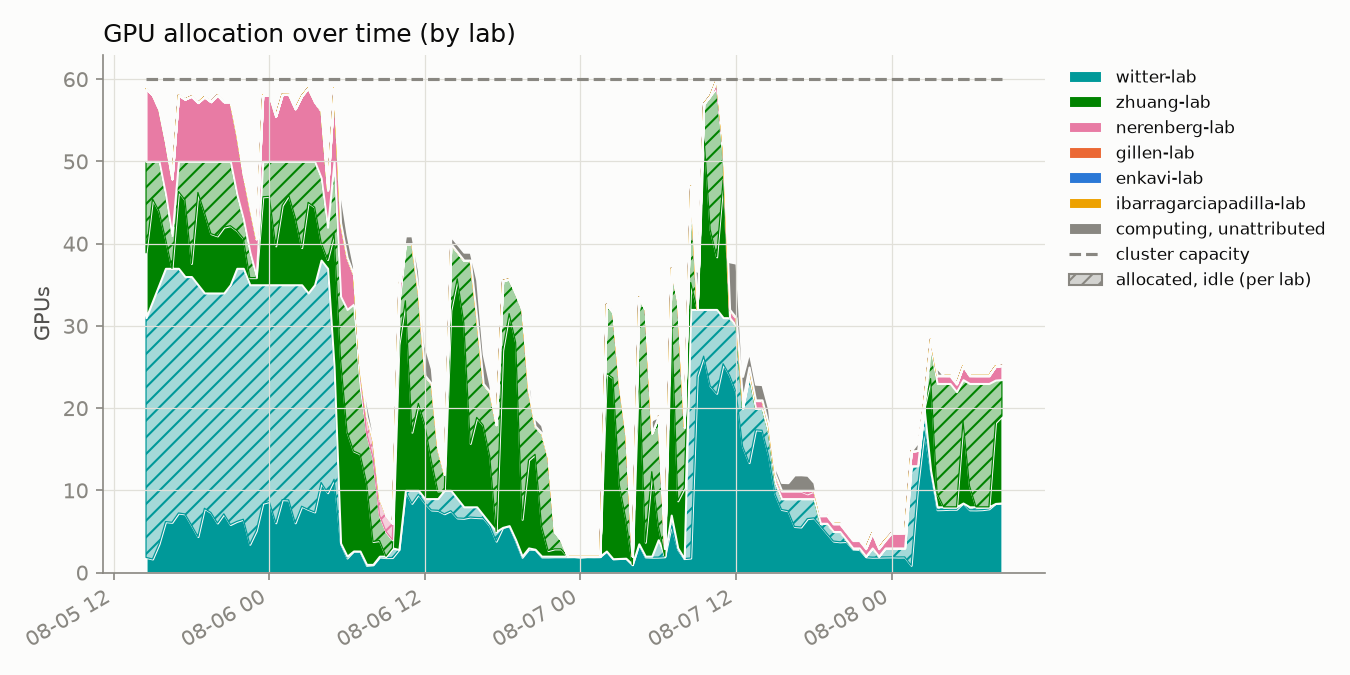
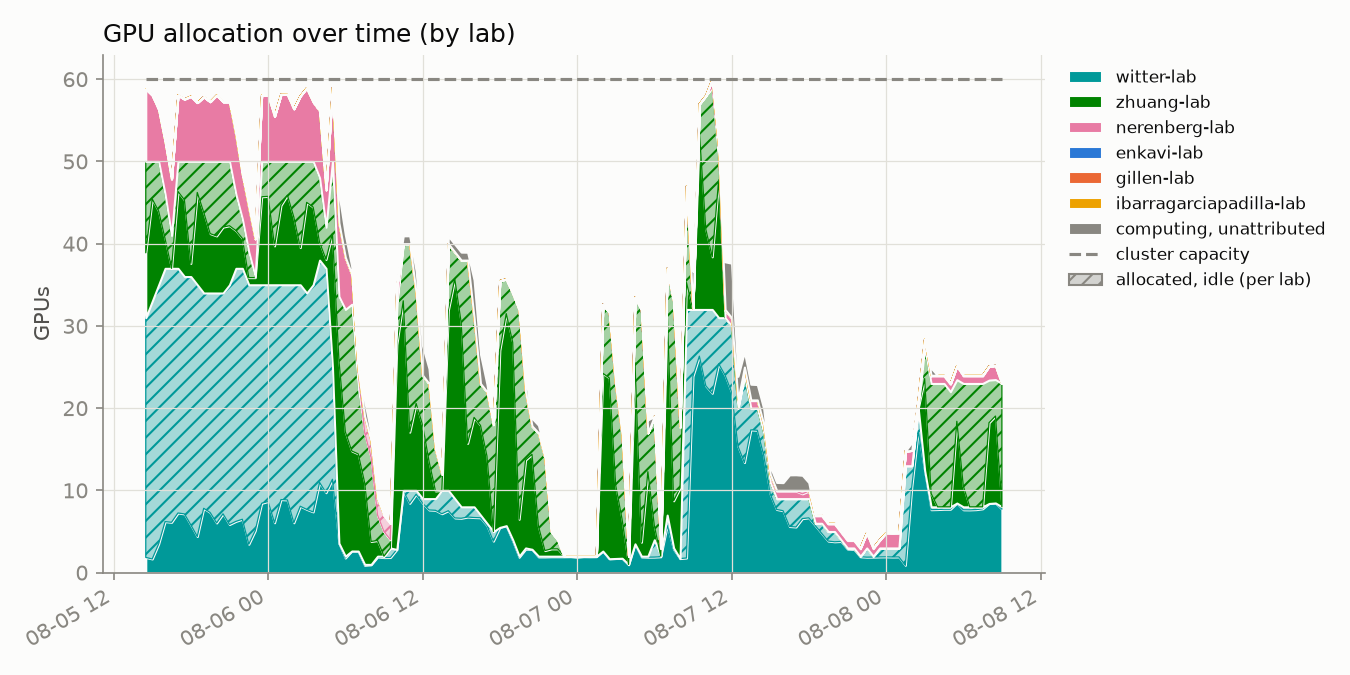
update 2026-08-08T09:00:01-07:00

diff --git a/README.md b/README.md
@@ -2,8 +2,8 @@
 
 Automated GPU/CPU/queue utilization tracker for `hopper.cluster`, updated every 30 minutes by cron. Usernames are anonymized to a stable per-account pseudonym; lab names are real.
 
-Last updated: 2026-08-08T08:30:14-07:00
-Samples: 133 queue snapshots, 133 GPU snapshots
+Last updated: 2026-08-08T09:00:13-07:00
+Samples: 134 queue snapshots, 134 GPU snapshots
 
 ## Resources
 
@@ -16,25 +16,25 @@ Samples: 133 queue snapshots, 133 GPU snapshots
 
 ## Headline
 
-- **45.5%** of the cluster's 60 GPUs allocated, averaged across all samples
-- **47.3%** average `nvidia-smi` utilization *when* a GPU is allocated to a job
-- **88.0%** average cgroup CPU utilization *when* a CPU is allocated to a job
+- **45.4%** of the cluster's 60 GPUs allocated, averaged across all samples
+- **47.2%** average `nvidia-smi` utilization *when* a GPU is allocated to a job
+- **88.1%** average cgroup CPU utilization *when* a CPU is allocated to a job
 
 ## Per lab / per user
 
 <table>
 <tr><th>Lab</th><th>User</th><th align='right'>GPU-hours allocated</th><th align='right'>CPU-hours allocated</th><th align='right'>GPU utilization</th></tr>
-<tr style='background-color:#d8ecd8'><td>zhuang-lab</td><td>user-0db9ced0</td><td align='right'>811.5</td><td align='right'>811.5</td><td align='right'>46%</td></tr>
-<tr style='background-color:#d8efef'><td>witter-lab</td><td>user-554c620c</td><td align='right'>472.0</td><td align='right'>989.5</td><td align='right'>67%</td></tr>
+<tr style='background-color:#d8ecd8'><td>zhuang-lab</td><td>user-0db9ced0</td><td align='right'>819.0</td><td align='right'>819.0</td><td align='right'>46%</td></tr>
+<tr style='background-color:#d8efef'><td>witter-lab</td><td>user-554c620c</td><td align='right'>476.0</td><td align='right'>993.5</td><td align='right'>67%</td></tr>
 <tr style='background-color:#d8efef'><td>witter-lab</td><td>user-d58f5a15</td><td align='right'>467.5</td><td align='right'>3740.0</td><td align='right'>9%</td></tr>
 <tr style='background-color:#fbebf1'><td>nerenberg-lab</td><td>user-6bb5f332</td><td align='right'>40.0</td><td align='right'>200.0</td><td align='right'>71%</td></tr>
 <tr style='background-color:#fbebf1'><td>nerenberg-lab</td><td>user-fedb5feb</td><td align='right'>22.5</td><td align='right'>54.0</td><td align='right'>67%</td></tr>
-<tr style='background-color:#fce8e0'><td>gillen-lab</td><td>user-b89a87ef</td><td align='right'>0.0</td><td align='right'>648.0</td><td align='right'>—</td></tr>
-<tr style='background-color:#fbebf1'><td>nerenberg-lab</td><td>user-b12dc074</td><td align='right'>0.0</td><td align='right'>16.0</td><td align='right'>—</td></tr>
-<tr style='background-color:#fcf0d8'><td>ibarragarciapadilla-lab</td><td>user-3cfc41a3</td><td align='right'>0.0</td><td align='right'>3922.5</td><td align='right'>—</td></tr>
-<tr style='background-color:#dfeaf8'><td>enkavi-lab</td><td>user-c21bdaa4</td><td align='right'>0.0</td><td align='right'>171.0</td><td align='right'>—</td></tr>
+<tr style='background-color:#fcf0d8'><td>ibarragarciapadilla-lab</td><td>user-3cfc41a3</td><td align='right'>0.0</td><td align='right'>3930.0</td><td align='right'>—</td></tr>
+<tr style='background-color:#fce8e0'><td>gillen-lab</td><td>user-b89a87ef</td><td align='right'>0.0</td><td align='right'>660.0</td><td align='right'>—</td></tr>
 <tr style='background-color:#fcf0d8'><td>ibarragarciapadilla-lab</td><td>user-eec7ffae</td><td align='right'>0.0</td><td align='right'>426.5</td><td align='right'>—</td></tr>
+<tr style='background-color:#fbebf1'><td>nerenberg-lab</td><td>user-b12dc074</td><td align='right'>0.0</td><td align='right'>16.0</td><td align='right'>—</td></tr>
 <tr style='background-color:#fcf0d8'><td>ibarragarciapadilla-lab</td><td>user-dad71a72</td><td align='right'>0.0</td><td align='right'>6.0</td><td align='right'>—</td></tr>
+<tr style='background-color:#dfeaf8'><td>enkavi-lab</td><td>user-c21bdaa4</td><td align='right'>0.0</td><td align='right'>171.0</td><td align='right'>—</td></tr>
 </table>
 
 ## Usage over time
@@ -45,7 +45,7 @@ Samples: 133 queue snapshots, 133 GPU snapshots
 
 Solid = utilized by lab, hatched = allocated but idle, gray = usage not traceable to a lab, dashed line = cluster capacity.
 
-Attribution combines `nvidia-smi`'s process listing with Slurm's GPU-to-job binding record; the latter caught **2624** readings the former missed.
+Attribution combines `nvidia-smi`'s process listing with Slurm's GPU-to-job binding record; the latter caught **2635** readings the former missed.
 
 ## Queue
 
@@ -57,13 +57,13 @@ Attribution combines `nvidia-smi`'s process listing with Slurm's GPU-to-job bind
 
 ![CPU usage vs GPU usage, decayed](assets/cpu_gpu_usage.png)
 
-One point per user per snapshot (n=642), usage decayed on Slurm's ~7-day fairshare half-life.
+One point per user per snapshot (n=646), usage decayed on Slurm's ~7-day fairshare half-life.
 
 **GPU usage doesn't count toward priority on this cluster** (`TRESBillingWeights`/`PriorityWeightTRES` unset) - watch the **upper-left**: low CPU usage (high priority) with high GPU usage.
 
 ## Recommendations
 
-1. **Weight GPU usage in fairshare.** `TRESBillingWeights` and `PriorityWeightTRES` are both unset right now, so Slurm's fairshare score only sees CPU-seconds - a job holding 4 idle L40S GPUs costs nothing in priority as long as it isn't also holding CPUs. That's the exact failure mode the scatter above is built to catch (upper-left: low CPU usage, high GPU usage). Fix: `scontrol update partition=main TRESBillingWeights=CPU=1.0,GRES/gpu=<weight>` (or set `PriorityWeightTRES` cluster-wide), then `scontrol reconfigure` - a full `slurmctld` restart also works but drops in-flight priority state. A reasonable starting point for `<weight>` is the CPUs-per-GPU ratio on a GPU node (128 CPUs / 4 GPUs = 32), so one GPU costs as much fairshare as the CPU share it displaces; tune from there against next week's headline numbers (45.5% allocated, 47.3% utilized when allocated, as of this snapshot). The weight value itself is a policy call - loop in whoever owns cluster allocation policy before changing it.
+1. **Weight GPU usage in fairshare.** `TRESBillingWeights` and `PriorityWeightTRES` are both unset right now, so Slurm's fairshare score only sees CPU-seconds - a job holding 4 idle L40S GPUs costs nothing in priority as long as it isn't also holding CPUs. That's the exact failure mode the scatter above is built to catch (upper-left: low CPU usage, high GPU usage). Fix: `scontrol update partition=main TRESBillingWeights=CPU=1.0,GRES/gpu=<weight>` (or set `PriorityWeightTRES` cluster-wide), then `scontrol reconfigure` - a full `slurmctld` restart also works but drops in-flight priority state. A reasonable starting point for `<weight>` is the CPUs-per-GPU ratio on a GPU node (128 CPUs / 4 GPUs = 32), so one GPU costs as much fairshare as the CPU share it displaces; tune from there against next week's headline numbers (45.4% allocated, 47.2% utilized when allocated, as of this snapshot). The weight value itself is a policy call - loop in whoever owns cluster allocation policy before changing it.
 
 2. **Escalate on sustained low utilization** (see table and scatter above). Right now the clearest candidate is `user-d58f5a15` in `witter-lab`: 467.5 GPU-hours allocated at 9% average utilization, i.e. roughly 424 GPU-hours that sat idle instead of going to someone in the queue. Turning that into an automated escalation needs two decisions made up front: a utilization threshold (something like under 20% mean utilization over at least 50 allocated GPU-hours is a defensible starting bar - loose enough to skip short debugging runs, tight enough to catch parked allocations) and a grace period (how many consecutive low-utilization snapshots before it counts as "sustained" rather than a momentary lull between batches). Once those are set, the mechanism can be either soft (a bot that reads `data/gpu_samples.jsonl` and reminds the user/lab by email or Slack) or hard (a Slurm-side QOS penalty, e.g. `sacctmgr modify qos <qos> set Priority-=<n>`, applied after N consecutive offending snapshots). Neither exists yet - today the table and scatter above are a read-only signal, not an enforced policy.
 
